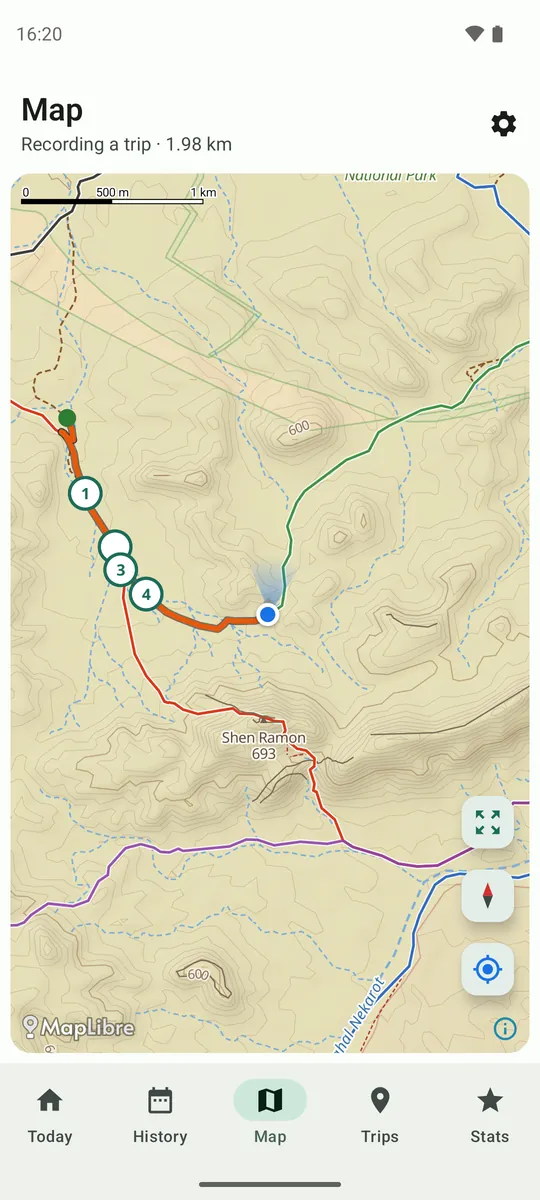
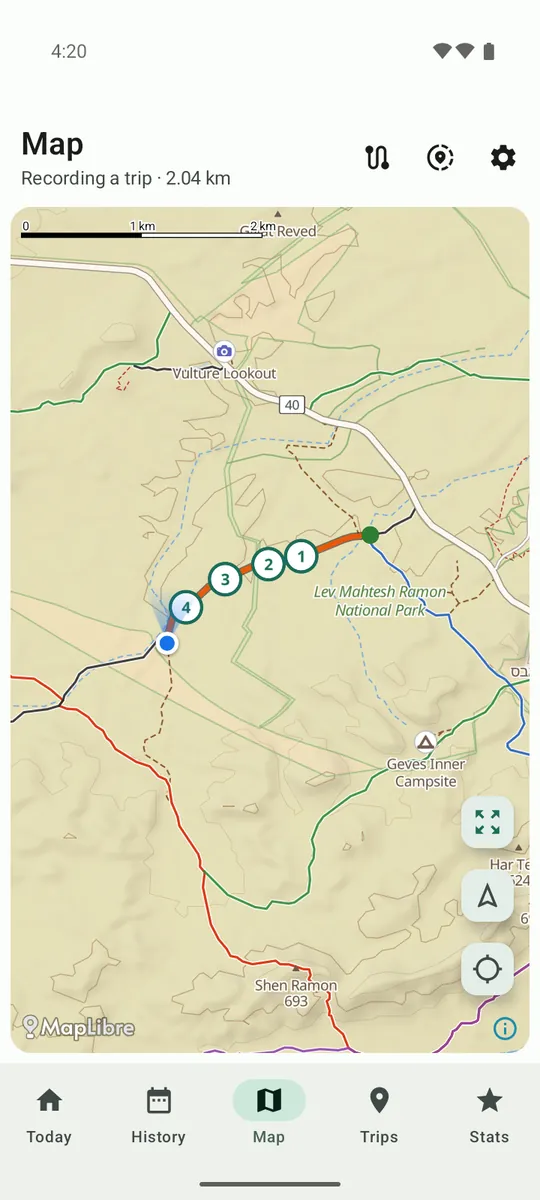
Publish the web page: Share my location, GPX routes, a 1.4 map screenshot (2026-11-07)

diff --git a/index.html b/index.html
@@ -70,7 +70,7 @@
 </blockquote>
 
 <div class="shots" role="list">
-  <figure role="listitem"><img src="screenshots/map-recording.webp" width="540" height="1200" alt="The map in Makhtesh Ramon with no signal: a trip being recorded in orange, marked spots, the blue dot with its compass cone, colored trail marks and contour lines"><figcaption>The map in Makhtesh Ramon, offline, while a trip records.</figcaption></figure>
+  <figure role="listitem"><img src="screenshots/map-recording.webp" width="540" height="1200" alt="The map in Makhtesh Ramon with no signal: a trip being recorded in orange, marked spots, the blue dot with its compass cone, colored trail marks and contour lines, and the Routes and Share my location buttons at the top"><figcaption>The map in Makhtesh Ramon, offline, while a trip records.</figcaption></figure>
   <figure role="listitem"><img src="screenshots/trip-drive.webp" width="540" height="1200" alt="A 4x4 drive in Makhtesh Ramon on the map, colored by speed from 11 to 71 km/h, with three spots"><figcaption>A 4x4 drive, colored by speed, with spots.</figcaption></figure>
   <figure role="listitem"><img src="screenshots/trip-hike.webp" width="540" height="1200" alt="A hike at Ein Gedi on the map, colored by speed, along marked paths, with four spots"><figcaption>A hike at Ein Gedi, along the marked paths.</figcaption></figure>
   <figure role="listitem"><img src="screenshots/today.webp" width="540" height="1200" alt="Today: 8,571 of 10,000 steps in a ring, with workout and incidental steps and this week's total"><figcaption>Today's steps against your goal.</figcaption></figure>
@@ -85,10 +85,12 @@
   <li><b>Daily steps</b>Today's steps in a ring against your goal, the last 7 days, and lifetime numbers. The steps come from Android's Health Connect; the app only reads them.</li>
   <li><b>GPS trips</b>Tap <i>Start trip</i> before a hike or a drive. The app records your route, on foot or at driving speed, with the screen off, until you tap <i>Finish</i>.</li>
   <li><b>Spots</b>Mark a spring, a junction or a viewpoint as you go: from the app, from the notification, or from the lock screen without unlocking.</li>
-  <li><b>An outdoor map</b>Trails, wadis and jeep tracks, peaks and hill shading. Your position with a compass cone, and a map that can turn with you.</li>
+  <li><b>An outdoor map</b>Trails, wadis and jeep tracks, peaks and hill shading. Your position with a compass cone, and a map that can turn with you. The trip you're recording draws on it as you go.</li>
   <li><b>An offline map of Israel</b>Download it once (150 MB) and the map works with no signal, with marked trails in their colors, jeep tracks, wadis and contour lines.</li>
   <li><b>Every trip on a map</b>Colored by speed, with your spots, its distance, moving time, climb, top speed and a height chart. Walks and drives are counted separately.</li>
   <li><b>GPX</b>Share or save any trip as a GPX file, to open it in other map and navigation apps.</li>
+  <li><b>Routes from GPX files</b>Someone sends you a planned hike or 4x4 route? Open it with the app and follow it on the map, online or offline, with how far you've come and how far is left.</li>
+  <li><b>Send where you are</b>One tap on the Map tab puts your location, as a map link, in WhatsApp, Telegram, a text or an email. Once: it doesn't keep updating.</li>
 </ul>
 
 <h2>Just a tool</h2>
